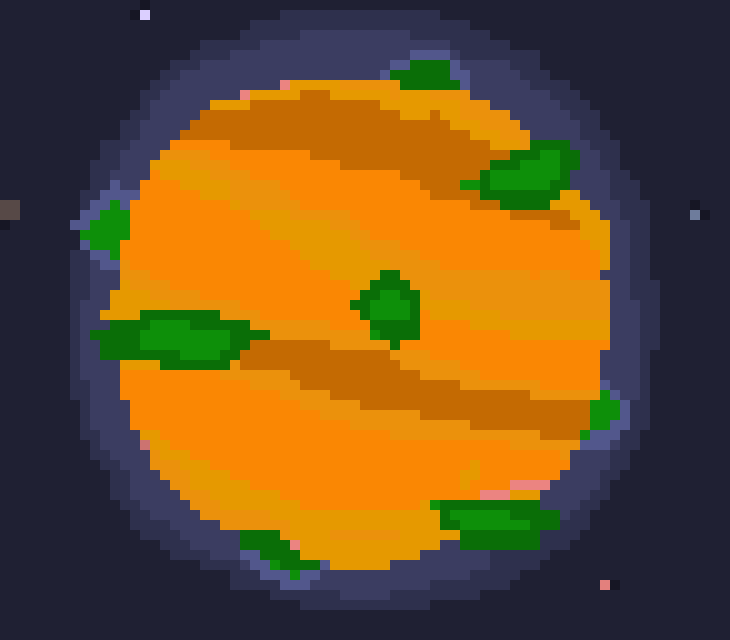
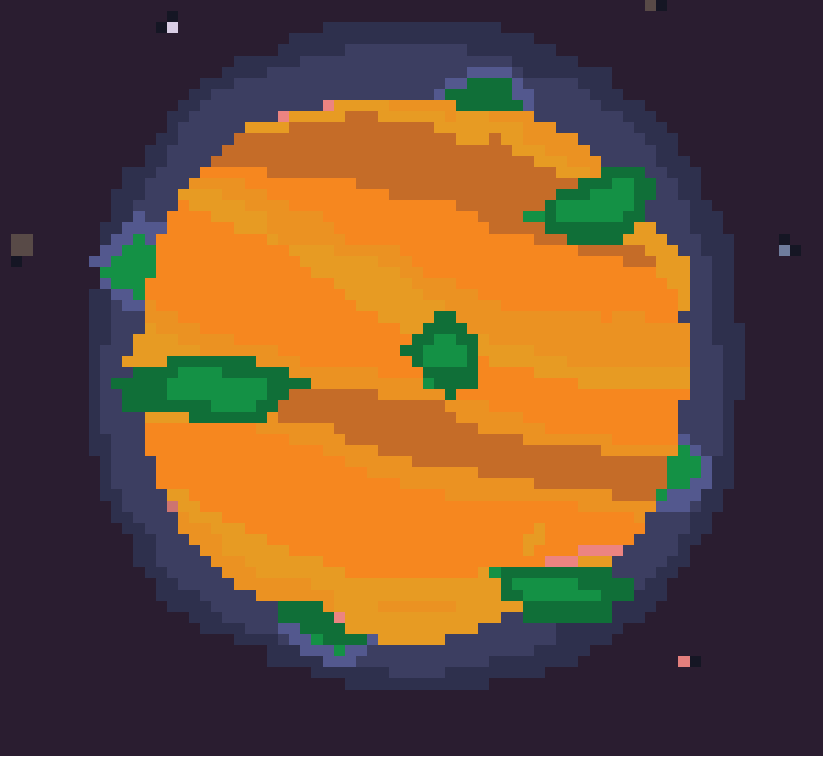
added start and end text

diff --git a/src/RocketBunny.java b/src/RocketBunny.java
@@ -15,12 +15,12 @@ public class RocketBunny extends AbstractGame {
     private final int tickRate = 500;
     private long lastUpdateMills = 0;
     private Boolean wasHit = false;
-    private final Font word = new Font("res/8-BIT WONDER.TTF", 500);
+    private int tick = -1;
+    private final Font word = new Font("res/8-BIT-WONDER.TTF", 50);
 
     public RocketBunny() {
         super(1024, 768, "Rocket Bunny");
         loadMap();
-        intro();
     }
 
     public static void main(String[] args) {
@@ -73,27 +73,6 @@ public class RocketBunny extends AbstractGame {
 
     }
 
-    public void intro() {
-        for (int i=0; i<4; i++) {
-            long timeBegin = currentTimeMillis();
-            while (tickRate != (currentTimeMillis() - timeBegin));
-            for (Actor actor : actorList) {
-                actor.shift();
-            }
-            ship.shift();
-
-            /* render images */
-            for (Actor actor : actorList) {
-                actor.render();
-            }
-            ship.render();
-        }
-    }
-
-    public void finale() {
-
-    }
-
     @Override
     protected void update(Input input) {
         Boolean status = false;
@@ -111,42 +90,57 @@ public class RocketBunny extends AbstractGame {
         long thisUpdateMills = currentTimeMillis();
         if (thisUpdateMills - lastUpdateMills > tickRate) {
             /* move actors */
-            for (Actor actor : actorList) {
-                actor.shift();
+            if (actorList.get(0).getX() >= -1728) {
+                for (Actor actor : actorList) {
+                    actor.shift();
+                }
             }
-            lastUpdateMills = thisUpdateMills;
 
+            /* update the tick accordingly */
+            if (tick < 13) {
+                ship.shift("back");
+                tick++;
+            } else if (tick < 15) {
+                ship.shift("front");
+                tick++;
+            } else if (tick > 19) {
+                Window.close();
+            }
+
+            if (ship.getCondition() == 0 || (actorList.get(0).getX() <= -1728)) {
+                tick++;
+            }
 
             /* check if hit asteroid */
-            for (Actor actor : actorList) {
-                if (actor instanceof AsteroidLarge) {
-                    status = ship.checkSurrounding(ship, actor, 64);
-                } else if (actor instanceof AsteroidSmall) {
-                    status = ship.checkSurrounding(ship, actor, 32);
-                } else {
-                    status = false;
+            if (ship.getCondition() != 0) {
+                for (Actor actor : actorList) {
+                    if (actor instanceof AsteroidLarge) {
+                        status = ship.checkSurrounding(ship, actor, 64);
+                    } else if (actor instanceof AsteroidSmall) {
+                        status = ship.checkSurrounding(ship, actor, 32);
+                    } else {
+                        status = false;
+                    }
+
+                    if (status) {
+                        break;
+                    }
                 }
 
+
+                /* update the status */
                 if (status) {
-                    break;
+                    if (wasHit == false) {
+                        ship.crash();
+                        wasHit = true;
+                    }
+                } else {
+                    if (wasHit) {
+                        wasHit = false;
+                    }
                 }
             }
-
-            /* update the status */
-            if (status) {
-                if (wasHit == false) {
-                    ship.crash();
-                    wasHit = true;
-                }
-            } else {
-                if (wasHit) {
-                    wasHit = false;
-                }
-            }
-        }
-
-        if (ship.getCondition() == 0) {
-            word.drawString("The end", 0, 0);
+            lastUpdateMills = thisUpdateMills;
         }
 
         /* render images */
@@ -155,5 +149,13 @@ public class RocketBunny extends AbstractGame {
         }
         ship.render();
 
+        /* add text */
+        if (tick < 5) {
+            word.drawString("Avoid the asteroid", 100, 348);
+        } else if (actorList.get(0).getX() <= -1728){
+            word.drawString("Made it", 400, 348);
+        } else if (ship.getCondition() == 0) {
+            word.drawString("NoBunny Left", 200, 348);
+        }
     }
 }

diff --git a/src/Ship.java b/src/Ship.java
@@ -16,7 +16,7 @@ public class Ship {
 
     /* constructor to initialize value */
     public Ship() {
-        x = 0;
+        x = 1024;
         y = 348;
         image = new Image(THREE_LIFE_FILE);
         condition = THREE_LIFE;
@@ -55,8 +55,12 @@ public class Ship {
         return condition;
     }
 
-    public void shift() {
-        x = x + RocketBunny.PER_PIXEL;
+    public void shift(String back) {
+        if (back == "back") {
+            x = x - RocketBunny.PER_PIXEL;
+        } else {
+            x = x + RocketBunny.PER_PIXEL;
+        }
     }
 
     public void move(int x, int y) {

diff --git a/src/Background.java b/src/Background.java
@@ -2,6 +2,6 @@ public class Background extends Actor{
     public static final String TYPE = "Background";
 
     public Background() {
-        super(1856, 384, "res/image/galaxyPlanet.png", TYPE);
+        super(1728, 384, "res/image/spacebackground.png", TYPE);
     }
 }

diff --git a/src/EndPlanet.java b/src/EndPlanet.java
@@ -2,6 +2,6 @@ public class EndPlanet extends Actor {
     public static final String TYPE = "EndPlanet";
 
     public EndPlanet() {
-        super(3072,348, "res/image/carrotplanet.png", TYPE);
+        super(4096,348, "res/image/carrotplanet.png", TYPE);
     }
 }

diff --git a/src/StartPlanet.java b/src/StartPlanet.java
@@ -2,6 +2,6 @@ public class StartPlanet extends Actor{
     public static final String TYPE = "StartPlanet";
 
     public StartPlanet() {
-        super(0,0, "res/image/earth.png", TYPE);
+        super(1024,348, "res/image/earth.png", TYPE);
     }
 }
